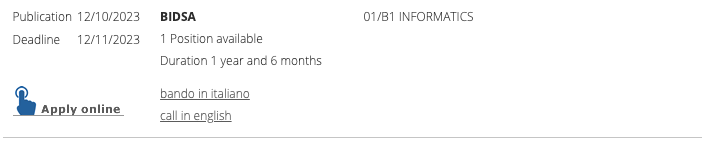
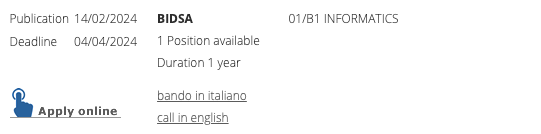
updates postdoc

diff --git a/jobs.html b/jobs.html
@@ -29,15 +29,18 @@
 <h1>Job opportunities</h1>
 </div>
 <h2>Postdoctoral research fellow</h2>
-<p>I am looking for a postdoctoral research fellow to join my team and contribute to research in online learning and computational game theory. The starting date is flexible, as long as it falls within the period of April to September 2024. This is a fully funded, full-time research opportunity that does not involve any mandatory teaching duties or coursework. The contract duration for this position is expected to be 12 months. We offer a very competitive salary, and applicants from outside Italy may have the opportunity to benefit from a researcher taxation scheme.</p>
+<p>I am looking for a postdoctoral research fellow to join my team and contribute to research in online learning and computational game theory. The starting date is flexible, as long as it falls within the period of April to September 2024. This is a fully funded, full-time research opportunity that does not involve any mandatory teaching duties or coursework. The contract duration for this position is 12 months. We offer a competitive salary (42.000 Euro, applicants from outside Italy may benefit from an almost-tax-free researcher taxation scheme). The application deadline is April 4, 2024.</p>
 <p>This position is made possible through a collaborative research grant shared between Bocconi University and Politecnico di Milano. The successful candidate will be based at the <a href="https://cs.unibocconi.eu/">CS department</a> of Bocconi University in Milan and will work under my supervision. Additionally, they will have the opportunity to closely collaborate with <a href="https://albymarke.github.io/">Alberto Marchesi</a>'s group at Politecnico di Milano. Moreover, there is a possibility of engaging in collaborative projects with other researchers from both institutions.</p>
-<p>The research project considers topics at the intersection of online learning and computational game theory. </p>
-<p>Ideal candidates should have a track record in performing top-quality research in machine learning theory/computational game theory compatible with the standards of venues like EC, ICML, NeurIPS. Demonstrated past experience with such topics will be evaluated very positively.</p>
+<p>The research project considers topics at the intersection of online learning and computational game theory. Ideal candidates should have a track record in performing top-quality research in machine learning theory/computational game theory compatible with the standards of venues like EC, ICML, NeurIPS. Demonstrated past experience with such topics will be evaluated very positively.</p>
 <p><b>About the environment</b>: Bocconi University is a renowned private institution located in Milan, Italy. The newly established <a href="https://cs.unibocconi.eu/">Computing Sciences</a> department can already count on a sizeable theory group comprising researchers like <a href="https://lucatrevisan.github.io/">Luca Trevisan</a>, <a href="https://www.alonrosen.net/">Alon Rosen</a>, <a href="https://laurasanita.github.io/">Laura Sanità</a>, <a href="http://elias.ba30.eu/">Marek Elias</a>, <a href="https://cseao.github.io/">Emmanuela Orsini</a>, <a href="https://adampolak.github.io/">Adam Polak</a> and <a href="https://sites.google.com/view/giuliomalavolta/">Giulio Malavolta</a>. Moreover, there's a diverse array of researchers actively involved in both the theoretical and practical aspects of Machine Learning, such as <a href="https://milanlproc.github.io/">Dirk Hovy</a>, Riccardo Zecchina, Marc Mézard, and many others.</p>
-<p><font color=red size=+0.5><b>The official call for applications has not been launched yet. However, I will make sure to keep this post updated with a direct link to Bocconi University's job market page as soon as it becomes available. In the meantime, if you are interested in this postdoctoral position and seek further information, please do not hesitate to reach out to me at andrea.celli2@unibocconi.it. Please attach an up-to-date CV including a list of publications. </p>
+<p><font color=red size=+0.5><b>To apply go to the <a href="https://jobmarket.unibocconi.eu/?type=a&amp;urlBack=/wps/wcm/connect/bocconi/sitopubblico_it/albero+di+navigazione/home/docenti+e+ricerca/docenti/reclutamento+docenti/concorsi/assegni+di+ricerca/">job market page</a> of Bocconi, and then look for the opening dated February 14, 2024 like the one below (unfortunately there isn’t a perma-link to the application form):</p>
+<table class="imgtable"><tr><td>
+<img src="postdoc.png" alt="Profile picture" width="500px" />&nbsp;</td>
+<td align="left"></td></tr></table>
+<p>Please contact me if you are interested in this position and you would like more information.</p>
 <div id="footer">
 <div id="footer-text">
-Page generated 2024-02-09 23:10:53 CET, by <a href="http://jemdoc.jaboc.net/">jemdoc</a>.
+Page generated 2024-02-20 10:06:06 CET, by <a href="http://jemdoc.jaboc.net/">jemdoc</a>.
 </div>
 </div>
 </td>

diff --git a/index.html b/index.html
@@ -36,7 +36,7 @@ Department of Computing Sciences<br />
 <p>Email: andrea.celli2 AT unibocconi DOT it<br /></p>
 </td></tr></table>
 <h2>About me </h2>
-<p>I am an Assistant Professor in the Computing Sciences Department at <a href="https://www.unibocconi.eu/wps/wcm/connect/bocconi/sitopubblico_en/navigation+tree/home/">Bocconi University</a>, and a Research Affiliate at the <a href="https://bidsa.unibocconi.eu/">Bocconi Institute for Data Science and Analytics</a>. Previously, I spent one year as a postdoctoral researcher with the <a href="https://research.fb.com/teams/core-data-science/">Core Data Science</a> team at Facebook Research (London). I obtained my Ph.D. in Computer Science from Politecnico di Milano, where I was advised by Professor <a href="https://gatti.faculty.polimi.it/">Nicola Gatti</a>. During my Ph.D. I was a Visiting Researcher at Carnegie Mellon University, where I had the opportunity to work with Professor <a href="https://www.cs.cmu.edu/~sandholm/">Tuomas Sandholm</a> at the Electronic Marketplaces Lab. 
+<p>I am an Assistant Professor in the Computing Sciences Department at <a href="https://www.unibocconi.eu/wps/wcm/connect/bocconi/sitopubblico_en/navigation+tree/home/">Bocconi University</a>, and a Research Affiliate at the <a href="https://bidsa.unibocconi.eu/">Bocconi Institute for Data Science and Analytics</a>. Previously, I spent one year as a postdoctoral researcher with the <a href="https://research.fb.com/teams/core-data-science/">Core Data Science</a> team at Facebook Research (London). I obtained my Ph.D. in Computer Science from Politecnico di Milano, where I was advised by Professor <a href="https://gatti.faculty.polimi.it/">Nicola Gatti</a>. During my Ph.D. I was a Visiting Researcher at Carnegie Mellon University, where I was working with Professor <a href="https://www.cs.cmu.edu/~sandholm/">Tuomas Sandholm</a> at the Electronic Marketplaces Lab. 
 I am a member of the <a href="https://ellis.eu/">ELLIS Society</a>.</p>
 <p>My research revolves around problems at the intersection of computer science, optimization, and economics, with a focus on online learning, equilibrium finding problems, sequential decision-making and decision-making under uncertainty, information structure design problems, and algorithms for internet advertising markets.</p>
 <p>My research was awarded a <b>best paper award</b> at NeurIPS 2020 and the 2017 Lesmo prize for the best Italian MSc Thesis in Artificial Intelligence.</p>
@@ -53,7 +53,7 @@ I am a member of the <a href="https://ellis.eu/">ELLIS Society</a>.</p>
 </ul>
 <div id="footer">
 <div id="footer-text">
-Page generated 2024-02-09 23:18:17 CET, by <a href="http://jemdoc.jaboc.net/">jemdoc</a>.
+Page generated 2024-02-20 09:58:21 CET, by <a href="http://jemdoc.jaboc.net/">jemdoc</a>.
 </div>
 </div>
 </td>
